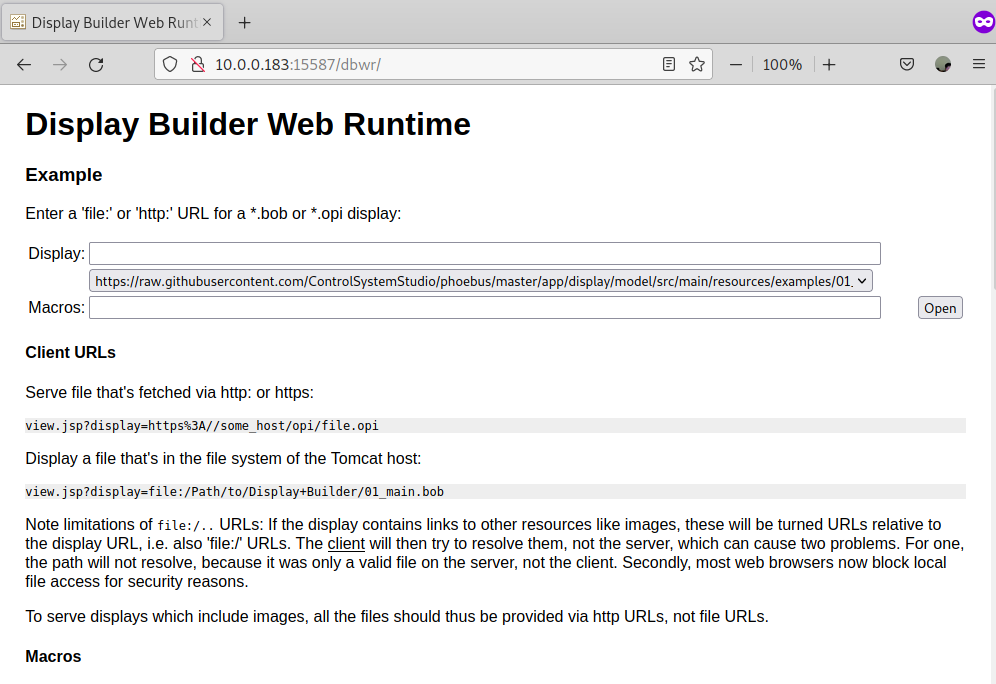
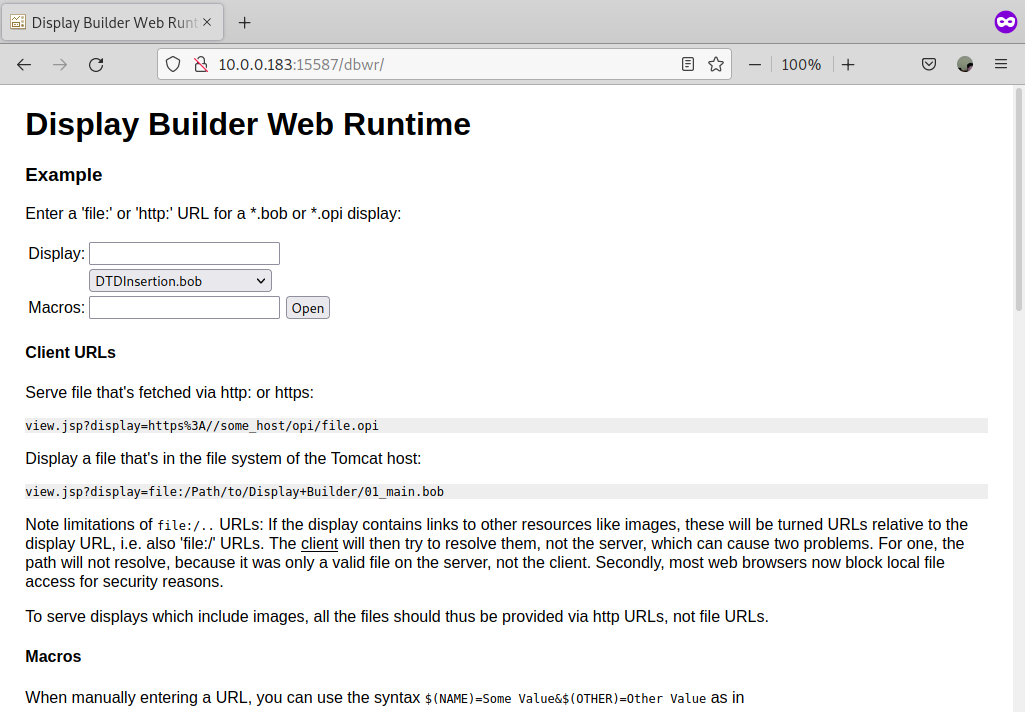
support dynamic DBWR list

diff --git a/README.md b/README.md
@@ -48,9 +48,15 @@ TOMCAT_VER = 9.0.58
 
 ## Build, install, and Service
 
-* 
+
 ```
 make init
+make conf
+make conf.show
+```
+Note that `dbwr_settings.conf` file is generated in `TOP`. Please update `WHITELIST` variables accordingly. Makefile cannot handle Regular expression. One shoud add them manually into a generated configuration file `dbwr_settings.conf`. The list of `WHITELIST` will be generated according to the list of `DBWR` in `CONFIG_APPNAME`.
+
+```
 make build
 make install
 make exist
